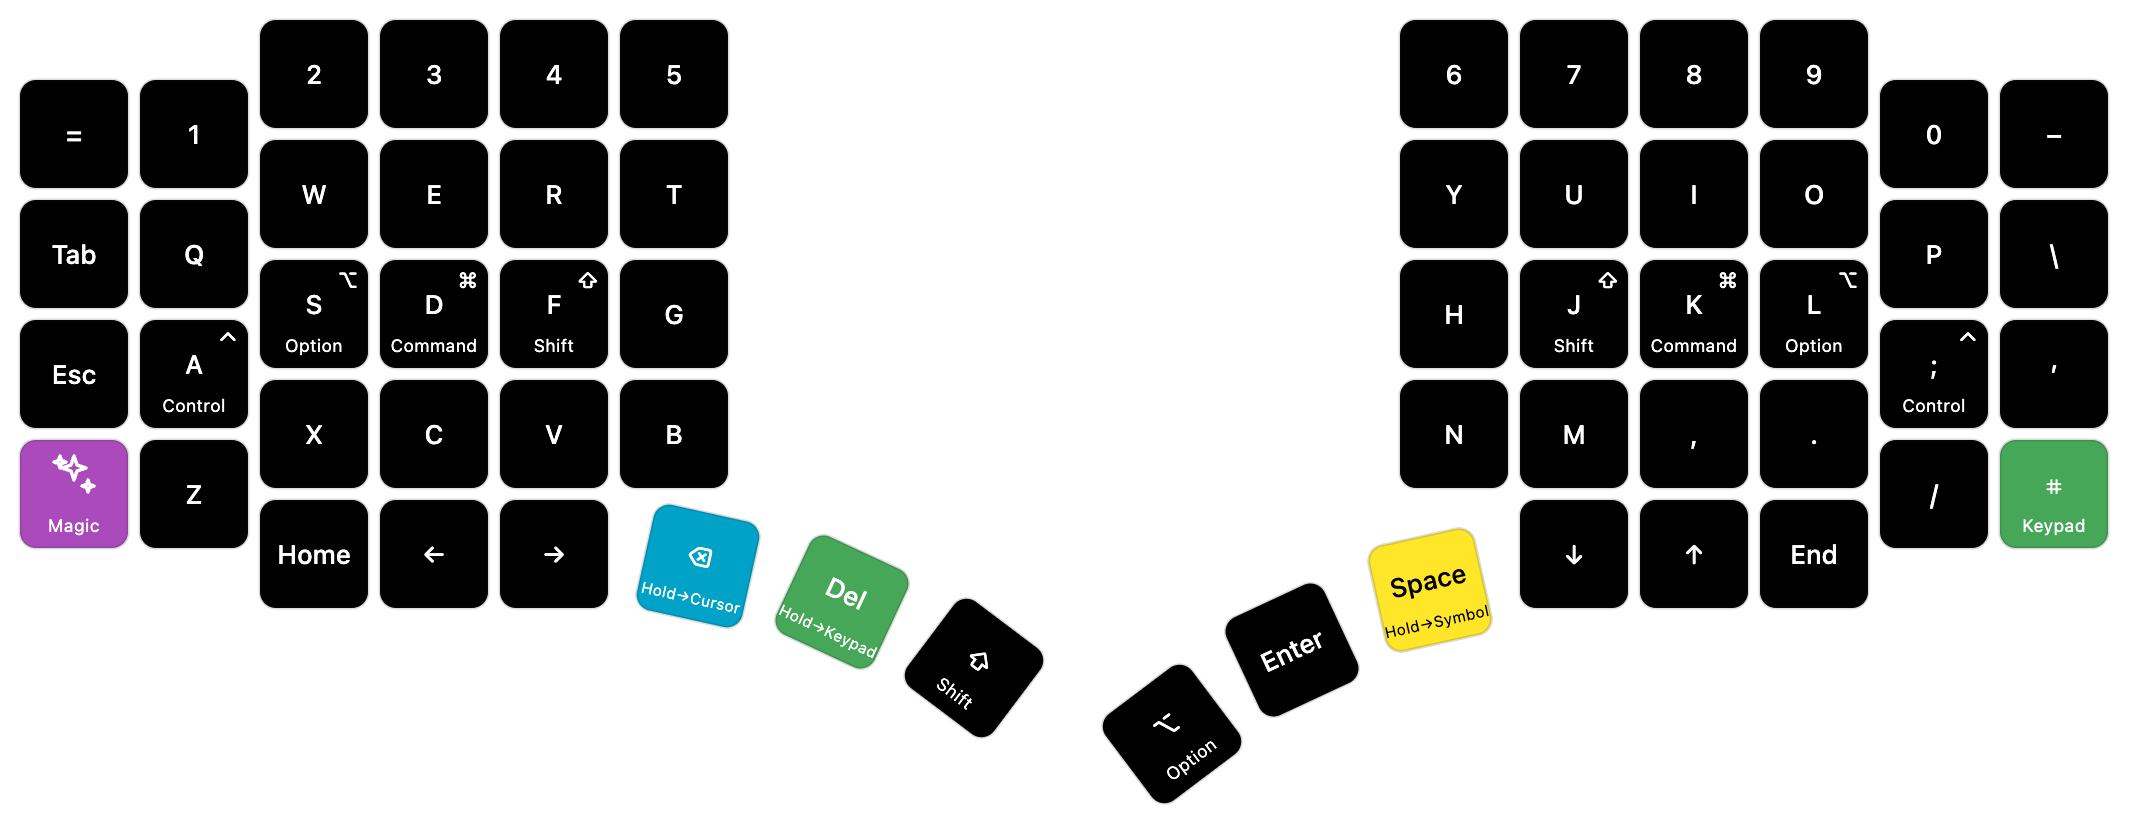
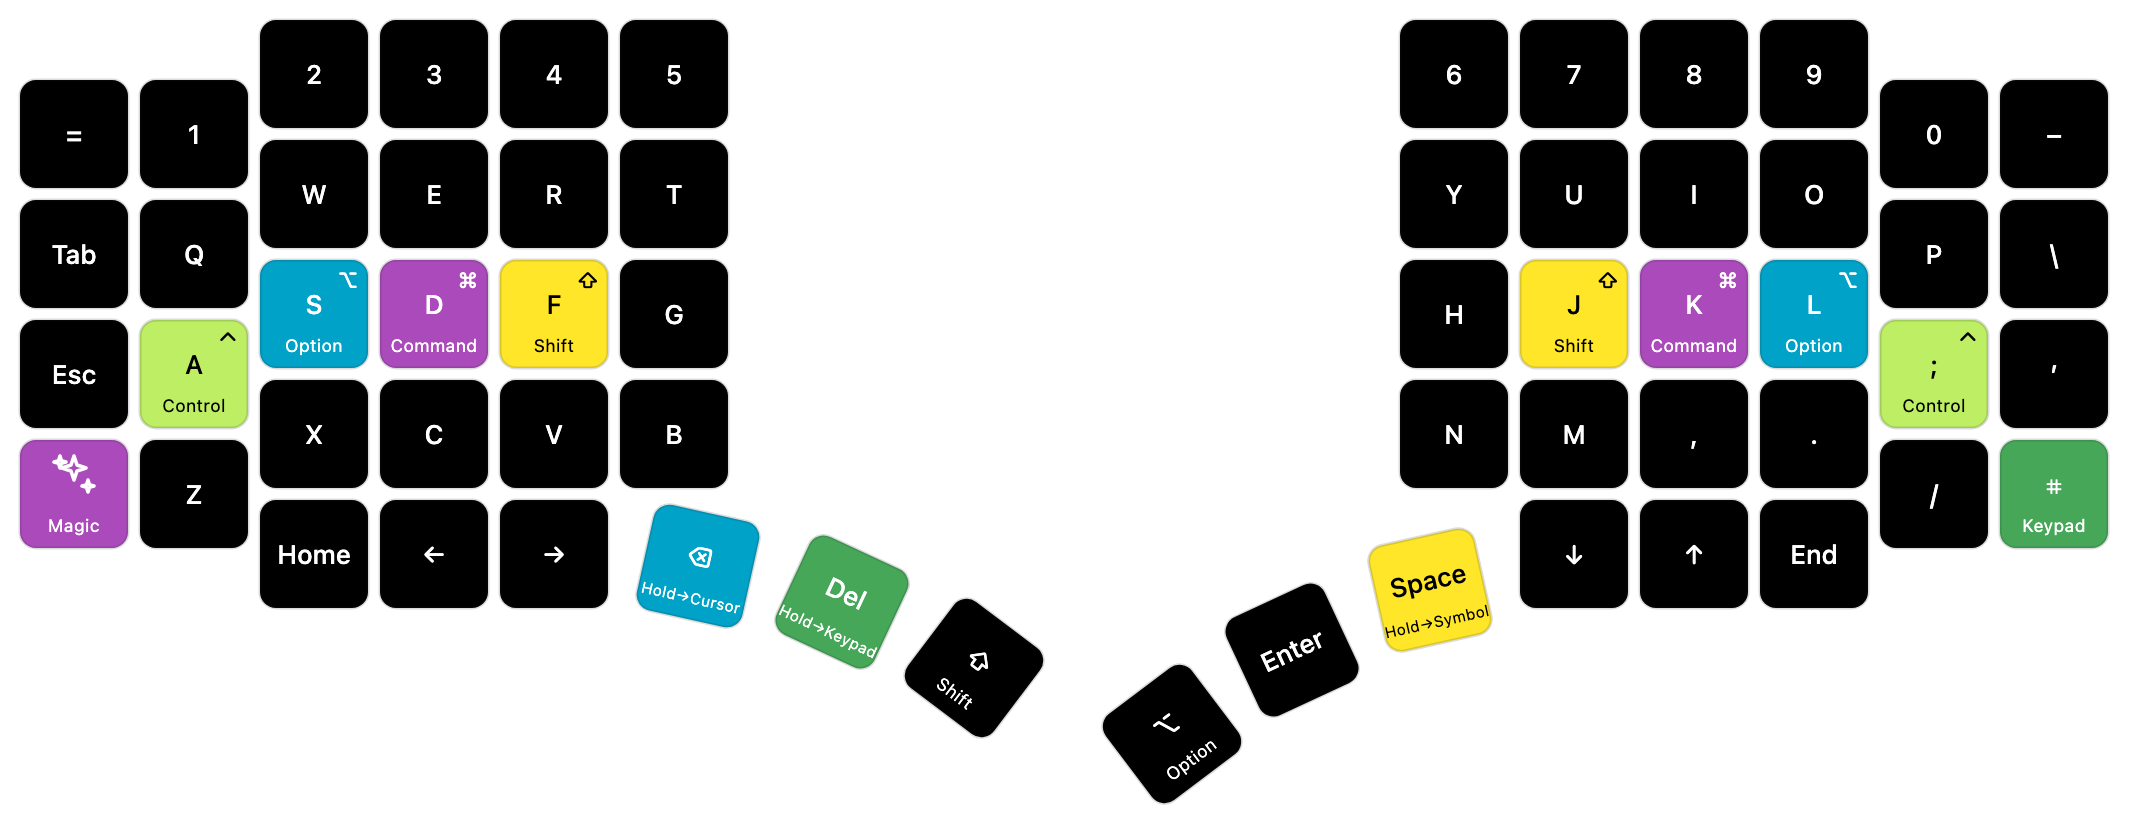
firmware: light base home-row mods
Distinguish each hold modifier without lighting ordinary letters on the
Typing layer. Parameterize the shared RGB map so both modes derive their
guide from one definition.

Changed region(s): [[0.7093, 0.3049, 0.9561, 0.5488], [0.0617, 0.3049, 0.3084, 0.5183]]

diff --git a/layout-preview.html b/layout-preview.html
@@ -71,7 +71,7 @@
   const controls = root.querySelector("#go60-layer-controls");
   const status = root.querySelector("#go60-layer-status");
   const board = root.querySelector("#go60-board");
-  const layers = [{"name":"Base","bindings":["&kp EQUAL","&kp N1","&kp N2","&kp N3","&kp N4","&kp N5","&kp N6","&kp N7","&kp N8","&kp N9","&kp N0","&kp MINUS","&kp TAB","&kp Q","&kp W","&kp E","&kp R","&kp T","&kp Y","&kp U","&kp I","&kp O","&kp P","&kp BSLH","&kp ESC","&HRM_left_hand_v1_TKZ LCTRL A","&HRM_left_hand_v1_TKZ LALT S","&HRM_left_hand_v1_TKZ LGUI D","&HRM_left_hand_v1_TKZ LSHFT F","&kp G","&kp H","&HRM_right_hand_v1_TKZ RSHFT J","&HRM_right_hand_v1_TKZ LGUI K","&HRM_right_hand_v1_TKZ LALT L","&HRM_right_hand_v1_TKZ RCTRL SEMI","&kp SQT","&magic LAYER_Magic 0","&kp Z","&kp X","&kp C","&kp V","&kp B","&kp N","&kp M","&kp COMMA","&kp DOT","&kp FSLH","&td_LAYER_Keypad","&kp HOME","&kp LEFT","&kp RIGHT","&kp DOWN","&kp UP","&kp END","&lt LAYER_Cursor BSPC","&lt LAYER_Keypad DEL","&kp LSHFT","&kp RALT","&kp RET","&lt LAYER_Symbol SPACE"],"own":"111111111111111111111111111111111111111111111111111111111111","colors":["#000000","#000000","#000000","#000000","#000000","#000000","#000000","#000000","#000000","#000000","#000000","#000000","#000000","#000000","#000000","#000000","#000000","#000000","#000000","#000000","#000000","#000000","#000000","#000000","#000000","#000000","#000000","#000000","#000000","#000000","#000000","#000000","#000000","#000000","#000000","#000000","#AB4ABA","#000000","#000000","#000000","#000000","#000000","#000000","#000000","#000000","#000000","#000000","#46A758","#000000","#000000","#000000","#000000","#000000","#000000","#00A2C7","#46A758","#000000","#000000","#000000","#FFE629"]},{"name":"Typing","bindings":["&kp EQUAL","&kp N1","&kp N2","&kp N3","&kp N4","&kp N5","&kp N6","&kp N7","&kp N8","&kp N9","&kp N0","&kp MINUS","&kp TAB","&kp Q","&kp W","&kp E","&kp R","&kp T","&kp Y","&kp U","&kp I","&kp O","&kp P","&kp BSLH","&kp ESC","&kp A","&kp S","&kp D","&kp F","&kp G","&kp H","&kp J","&kp K","&kp L","&kp SEMI","&kp SQT","&magic LAYER_Magic 0","&kp Z","&kp X","&kp C","&kp V","&kp B","&kp N","&kp M","&kp COMMA","&kp DOT","&kp FSLH","&td_LAYER_Keypad","&kp HOME","&kp LEFT","&kp RIGHT","&kp DOWN","&kp UP","&kp END","&lt LAYER_Cursor BSPC","&lt LAYER_Keypad DEL","&kp LSHFT","&kp RALT","&kp RET","&lt LAYER_Symbol SPACE"],"own":"000000000000000000000000011110011110000000000000000000000000","colors":["#000000","#000000","#000000","#000000","#000000","#000000","#000000","#000000","#000000","#000000","#000000","#000000","#000000","#000000","#000000","#000000","#000000","#000000","#000000","#000000","#000000","#000000","#000000","#000000","#000000","#000000","#000000","#000000","#000000","#000000","#000000","#000000","#000000","#000000","#000000","#000000","#AB4ABA","#000000","#000000","#000000","#000000","#000000","#000000","#000000","#000000","#000000","#000000","#46A758","#000000","#000000","#000000","#000000","#000000","#000000","#00A2C7","#46A758","#000000","#000000","#000000","#FFE629"]},{"name":"Symbol","bindings":["&kp GRAVE","&kp COMMA","&kp LS(N9)","&kp LS(N0)","&kp SEMI","&kp DOT","&none","&none","&none","&none","&none","&none","&kp LS(N1)","&kp LBKT","&kp LS(LBKT)","&kp LS(RBKT)","&kp RBKT","&kp LS(FSLH)","&kp GRAVE","&kp DEL","&kp LS(TAB)","&kp INS","&kp ESC","&none","&kp LS(N3)","&kp LS(N6)","&kp EQUAL","&kp LS(MINUS)","&kp LS(N4)","&kp LS(N8)","&kp LS(SINGLE_QUOTE)","&kp BSPC","&kp TAB","&kp SPACE","&kp RET","&none","&kp LS(GRAVE)","&kp LS(COMMA)","&kp LS(BSLH)","&kp MINUS","&kp LS(DOT)","&kp FSLH","&kp SQT","&sk LSHFT","&sk LCTRL","&sk LALT","&sk LGUI","&none","&kp SQT","&kp LS(SINGLE_QUOTE)","&kp LS(EQUAL)","&kp BSLH","&kp LS(N7)","&symb_dotdot_v1_TKZ","&kp LS(N5)","&kp LS(SEMI)","&kp LS(N2)","&none","&none","&none"],"own":"111111111111111111111111111111111111111111111111111111111111","colors":["#AB4ABA","#7CE2FE","#7CE2FE","#7CE2FE","#FFE629","#FFE629","#000000","#000000","#000000","#000000","#000000","#000000","#7CE2FE","#AB4ABA","#7CE2FE","#7CE2FE","#FFE629","#FFE629","#AB4ABA","#F76B15","#F76B15","#F76B15","#F76B15","#000000","#FFE629","#FFE629","#BDEE63","#F76B15","#FFE629","#FFE629","#AB4ABA","#F76B15","#F76B15","#F76B15","#F76B15","#000000","#AB4ABA","#BDEE63","#BDEE63","#BDEE63","#BDEE63","#FFE629","#AB4ABA","#EDEEF0","#EDEEF0","#EDEEF0","#EDEEF0","#000000","#AB4ABA","#AB4ABA","#F76B15","#FFE629","#FFE629","#FFE629","#FFE629","#FFE629","#FFE629","#000000","#000000","#000000"]},{"name":"Cursor","bindings":["&none","&kp ESC","&kp INS","&kp LS(TAB)","&kp DEL","&none","&none","&none","&kp K_APP","&kp PAUSE_BREAK","&kp SLCK","&none","&kp CAPS","&kp RET","&kp LS(LG(Z))","&kp LG(Z)","&kp BSPC","&kp LG(X)","&kp LG(X)","&kp LS(TAB)","&kp LG(Z)","&kp LS(LG(Z))","&kp TAB","&kp PSCRN","&sk LSHFT","&kp LCTRL","&kp LALT","&kp LGUI","&kp LSHFT","&kp LG(C)","&kp LG(C)","&kp LEFT","&kp UP","&kp DOWN","&kp RIGHT","&sk RSHFT","&kp LG(L)","&kp LG(A)","&cur_SELECT_LINE_macos_v1_TKZ","&cur_SELECT_WORD_macos_v1_TKZ","&kp LG(F)","&kp LG(V)","&kp LG(V)","&kp HOME","&kp PG_UP","&kp PG_DN","&kp END","&kp LG(L)","&none","&kp LS(LG(G))","&kp LG(G)","&kp LG(F)","&kp LS(LG(G))","&kp LG(G)","&none","&mod_tab_v2_TKZ LGUI","&kp LG(F3)","&cur_SELECT_NONE_v1_TKZ","&cur_EXTEND_LINE_macos_v1_TKZ","&cur_EXTEND_WORD_macos_v1_TKZ"],"own":"111111111111111111111111111111111111111111111111111111111111","colors":["#000000","#F76B15","#F76B15","#F76B15","#F76B15","#000000","#000000","#000000","#000000","#000000","#000000","#000000","#000000","#F76B15","#AB4ABA","#AB4ABA","#F76B15","#FFE629","#FFE629","#F76B15","#D6409F","#D6409F","#F76B15","#000000","#EDEEF0","#EDEEF0","#EDEEF0","#EDEEF0","#EDEEF0","#FFE629","#FFE629","#46A758","#46A758","#46A758","#46A758","#EDEEF0","#AB4ABA","#00A2C7","#00A2C7","#00A2C7","#AB4ABA","#FFE629","#FFE629","#46A758","#46A758","#46A758","#46A758","#AB4ABA","#000000","#AB4ABA","#AB4ABA","#AB4ABA","#AB4ABA","#AB4ABA","#000000","#29A383","#000000","#00A2C7","#00A2C7","#00A2C7"]},{"name":"Gaming","bindings":["&kp ESC","&kp N1","&kp N2","&kp N3","&kp N4","&kp N5","&kp N6","&kp N7","&kp N8","&kp N9","&kp N0","&kp MINUS","&kp RET","&kp TAB","&kp Q","&kp W","&kp E","&kp R","&kp Y","&kp U","&kp I","&kp O","&kp P","&kp LS(EQUAL)","&kp GRAVE","&kp LSHFT","&kp A","&kp S","&kp D","&kp F","&kp H","&kp J","&kp K","&kp L","&kp SEMI","&kp LS(SQT)","&kp B","&kp LCTRL","&kp Z","&kp X","&kp C","&kp V","&kp N","&kp M","&kp UP","&kp LS(COMMA)","&kp LS(DOT)","&kp LGUI","&kp LALT","&kp T","&kp G","&kp LEFT","&kp DOWN","&kp RIGHT","&kp SPACE","&kp LSHFT","&kp LCTRL","&kp BSPC","&kp LALT","&kp RET"],"own":"111111111111111111111111111111111111111111111111111111111111","colors":["#000000","#000000","#000000","#000000","#000000","#000000","#000000","#000000","#000000","#000000","#000000","#000000","#000000","#000000","#000000","#46A758","#000000","#000000","#000000","#000000","#000000","#000000","#000000","#000000","#000000","#000000","#46A758","#46A758","#46A758","#000000","#000000","#000000","#000000","#000000","#000000","#000000","#FFE629","#000000","#000000","#000000","#000000","#000000","#000000","#000000","#46A758","#000000","#000000","#000000","#000000","#000000","#000000","#46A758","#46A758","#46A758","#000000","#000000","#000000","#000000","#000000","#000000"]},{"name":"Keypad","bindings":["&none","&kp F1","&kp F2","&kp F3","&kp F4","&kp F5","&kp F6","&kp F7","&kp F8","&kp F9","&kp F10","&kp F11","&kp TAB","&none","&kp HOME","&kp UP","&kp END","&kp PG_UP","&kp KP_N7","&kp KP_N8","&kp KP_N9","&kp KP_MINUS","&kp KP_SLASH","&kp F12","&kp ESC","&kp LG(LS(Z))","&kp LEFT","&kp DOWN","&kp RIGHT","&kp PG_DN","&kp KP_N4","&kp KP_N5","&kp KP_N6","&kp KP_PLUS","&kp KP_MULTIPLY","&kp KP_NUM","&magic LAYER_Magic 0","&kp LG(Z)","&kp LG(X)","&kp LG(C)","&kp LG(V)","&kp LG(LA(LS(V)))","&kp KP_N1","&kp KP_N2","&kp KP_N3","&kp KP_ENTER","&kp EQUAL","&to LAYER_Base","&none","&kp T","&kp G","&kp KP_N0","&kp KP_DOT","&kp KP_ENTER","&none","&kp LSHFT","&kp LCTRL","&kp BSPC","&kp LALT","&kp KP_N0"],"own":"111111111111111111111111111111111111111111111111100111100001","colors":["#000000","#EDEEF0","#EDEEF0","#EDEEF0","#EDEEF0","#EDEEF0","#EDEEF0","#EDEEF0","#EDEEF0","#EDEEF0","#EDEEF0","#EDEEF0","#EDEEF0","#000000","#46A758","#46A758","#46A758","#46A758","#EDEEF0","#EDEEF0","#EDEEF0","#EDEEF0","#EDEEF0","#EDEEF0","#EDEEF0","#FFE629","#46A758","#46A758","#46A758","#46A758","#EDEEF0","#EDEEF0","#EDEEF0","#EDEEF0","#EDEEF0","#F76B15","#000000","#FFE629","#FFE629","#FFE629","#FFE629","#FFE629","#EDEEF0","#EDEEF0","#EDEEF0","#EDEEF0","#EDEEF0","#000000","#000000","#EDEEF0","#EDEEF0","#EDEEF0","#EDEEF0","#EDEEF0","#EDEEF0","#EDEEF0","#EDEEF0","#EDEEF0","#EDEEF0","#EDEEF0"]},{"name":"Magic","bindings":["&none","&kp C_BRI_DN","&kp C_BRI_UP","&kp C_PREV","&kp C_NEXT","&kp C_PP","&kp C_MUTE","&kp C_VOL_DN","&kp C_VOL_UP","&none","&bt BT_CLR","&bt BT_CLR_ALL","&bootloader","&rgb_ug RGB_SPI","&rgb_ug RGB_SAI","&rgb_ug RGB_HUI","&rgb_ug RGB_BRI","&rgb_ug RGB_TOG","&none","&none","&none","&none","&none","&bootloader","&sys_reset","&rgb_ug RGB_SPD","&rgb_ug RGB_SAD","&rgb_ug RGB_HUD","&rgb_ug RGB_BRD","&rgb_ug RGB_EFF","&none","&none","&none","&none","&none","&sys_reset","&none","&none","&bt_0","&bt_1","&bt_2","&bt_3","&none","&none","&none","&none","&none","&none","&out OUT_USB","&none","&to LAYER_Typing","&none","&none","&none","&to LAYER_Base","&none","&none","&none","&none","&none"],"own":"111111111111111111111111111111111111111111111111111111111111"}];
+  const layers = [{"name":"Base","bindings":["&kp EQUAL","&kp N1","&kp N2","&kp N3","&kp N4","&kp N5","&kp N6","&kp N7","&kp N8","&kp N9","&kp N0","&kp MINUS","&kp TAB","&kp Q","&kp W","&kp E","&kp R","&kp T","&kp Y","&kp U","&kp I","&kp O","&kp P","&kp BSLH","&kp ESC","&HRM_left_hand_v1_TKZ LCTRL A","&HRM_left_hand_v1_TKZ LALT S","&HRM_left_hand_v1_TKZ LGUI D","&HRM_left_hand_v1_TKZ LSHFT F","&kp G","&kp H","&HRM_right_hand_v1_TKZ RSHFT J","&HRM_right_hand_v1_TKZ LGUI K","&HRM_right_hand_v1_TKZ LALT L","&HRM_right_hand_v1_TKZ RCTRL SEMI","&kp SQT","&magic LAYER_Magic 0","&kp Z","&kp X","&kp C","&kp V","&kp B","&kp N","&kp M","&kp COMMA","&kp DOT","&kp FSLH","&td_LAYER_Keypad","&kp HOME","&kp LEFT","&kp RIGHT","&kp DOWN","&kp UP","&kp END","&lt LAYER_Cursor BSPC","&lt LAYER_Keypad DEL","&kp LSHFT","&kp RALT","&kp RET","&lt LAYER_Symbol SPACE"],"own":"111111111111111111111111111111111111111111111111111111111111","colors":["#000000","#000000","#000000","#000000","#000000","#000000","#000000","#000000","#000000","#000000","#000000","#000000","#000000","#000000","#000000","#000000","#000000","#000000","#000000","#000000","#000000","#000000","#000000","#000000","#000000","#BDEE63","#00A2C7","#AB4ABA","#FFE629","#000000","#000000","#FFE629","#AB4ABA","#00A2C7","#BDEE63","#000000","#AB4ABA","#000000","#000000","#000000","#000000","#000000","#000000","#000000","#000000","#000000","#000000","#46A758","#000000","#000000","#000000","#000000","#000000","#000000","#00A2C7","#46A758","#000000","#000000","#000000","#FFE629"]},{"name":"Typing","bindings":["&kp EQUAL","&kp N1","&kp N2","&kp N3","&kp N4","&kp N5","&kp N6","&kp N7","&kp N8","&kp N9","&kp N0","&kp MINUS","&kp TAB","&kp Q","&kp W","&kp E","&kp R","&kp T","&kp Y","&kp U","&kp I","&kp O","&kp P","&kp BSLH","&kp ESC","&kp A","&kp S","&kp D","&kp F","&kp G","&kp H","&kp J","&kp K","&kp L","&kp SEMI","&kp SQT","&magic LAYER_Magic 0","&kp Z","&kp X","&kp C","&kp V","&kp B","&kp N","&kp M","&kp COMMA","&kp DOT","&kp FSLH","&td_LAYER_Keypad","&kp HOME","&kp LEFT","&kp RIGHT","&kp DOWN","&kp UP","&kp END","&lt LAYER_Cursor BSPC","&lt LAYER_Keypad DEL","&kp LSHFT","&kp RALT","&kp RET","&lt LAYER_Symbol SPACE"],"own":"000000000000000000000000011110011110000000000000000000000000","colors":["#000000","#000000","#000000","#000000","#000000","#000000","#000000","#000000","#000000","#000000","#000000","#000000","#000000","#000000","#000000","#000000","#000000","#000000","#000000","#000000","#000000","#000000","#000000","#000000","#000000","#000000","#000000","#000000","#000000","#000000","#000000","#000000","#000000","#000000","#000000","#000000","#AB4ABA","#000000","#000000","#000000","#000000","#000000","#000000","#000000","#000000","#000000","#000000","#46A758","#000000","#000000","#000000","#000000","#000000","#000000","#00A2C7","#46A758","#000000","#000000","#000000","#FFE629"]},{"name":"Symbol","bindings":["&kp GRAVE","&kp COMMA","&kp LS(N9)","&kp LS(N0)","&kp SEMI","&kp DOT","&none","&none","&none","&none","&none","&none","&kp LS(N1)","&kp LBKT","&kp LS(LBKT)","&kp LS(RBKT)","&kp RBKT","&kp LS(FSLH)","&kp GRAVE","&kp DEL","&kp LS(TAB)","&kp INS","&kp ESC","&none","&kp LS(N3)","&kp LS(N6)","&kp EQUAL","&kp LS(MINUS)","&kp LS(N4)","&kp LS(N8)","&kp LS(SINGLE_QUOTE)","&kp BSPC","&kp TAB","&kp SPACE","&kp RET","&none","&kp LS(GRAVE)","&kp LS(COMMA)","&kp LS(BSLH)","&kp MINUS","&kp LS(DOT)","&kp FSLH","&kp SQT","&sk LSHFT","&sk LCTRL","&sk LALT","&sk LGUI","&none","&kp SQT","&kp LS(SINGLE_QUOTE)","&kp LS(EQUAL)","&kp BSLH","&kp LS(N7)","&symb_dotdot_v1_TKZ","&kp LS(N5)","&kp LS(SEMI)","&kp LS(N2)","&none","&none","&none"],"own":"111111111111111111111111111111111111111111111111111111111111","colors":["#AB4ABA","#7CE2FE","#7CE2FE","#7CE2FE","#FFE629","#FFE629","#000000","#000000","#000000","#000000","#000000","#000000","#7CE2FE","#AB4ABA","#7CE2FE","#7CE2FE","#FFE629","#FFE629","#AB4ABA","#F76B15","#F76B15","#F76B15","#F76B15","#000000","#FFE629","#FFE629","#BDEE63","#F76B15","#FFE629","#FFE629","#AB4ABA","#F76B15","#F76B15","#F76B15","#F76B15","#000000","#AB4ABA","#BDEE63","#BDEE63","#BDEE63","#BDEE63","#FFE629","#AB4ABA","#EDEEF0","#EDEEF0","#EDEEF0","#EDEEF0","#000000","#AB4ABA","#AB4ABA","#F76B15","#FFE629","#FFE629","#FFE629","#FFE629","#FFE629","#FFE629","#000000","#000000","#000000"]},{"name":"Cursor","bindings":["&none","&kp ESC","&kp INS","&kp LS(TAB)","&kp DEL","&none","&none","&none","&kp K_APP","&kp PAUSE_BREAK","&kp SLCK","&none","&kp CAPS","&kp RET","&kp LS(LG(Z))","&kp LG(Z)","&kp BSPC","&kp LG(X)","&kp LG(X)","&kp LS(TAB)","&kp LG(Z)","&kp LS(LG(Z))","&kp TAB","&kp PSCRN","&sk LSHFT","&kp LCTRL","&kp LALT","&kp LGUI","&kp LSHFT","&kp LG(C)","&kp LG(C)","&kp LEFT","&kp UP","&kp DOWN","&kp RIGHT","&sk RSHFT","&kp LG(L)","&kp LG(A)","&cur_SELECT_LINE_macos_v1_TKZ","&cur_SELECT_WORD_macos_v1_TKZ","&kp LG(F)","&kp LG(V)","&kp LG(V)","&kp HOME","&kp PG_UP","&kp PG_DN","&kp END","&kp LG(L)","&none","&kp LS(LG(G))","&kp LG(G)","&kp LG(F)","&kp LS(LG(G))","&kp LG(G)","&none","&mod_tab_v2_TKZ LGUI","&kp LG(F3)","&cur_SELECT_NONE_v1_TKZ","&cur_EXTEND_LINE_macos_v1_TKZ","&cur_EXTEND_WORD_macos_v1_TKZ"],"own":"111111111111111111111111111111111111111111111111111111111111","colors":["#000000","#F76B15","#F76B15","#F76B15","#F76B15","#000000","#000000","#000000","#000000","#000000","#000000","#000000","#000000","#F76B15","#AB4ABA","#AB4ABA","#F76B15","#FFE629","#FFE629","#F76B15","#D6409F","#D6409F","#F76B15","#000000","#EDEEF0","#EDEEF0","#EDEEF0","#EDEEF0","#EDEEF0","#FFE629","#FFE629","#46A758","#46A758","#46A758","#46A758","#EDEEF0","#AB4ABA","#00A2C7","#00A2C7","#00A2C7","#AB4ABA","#FFE629","#FFE629","#46A758","#46A758","#46A758","#46A758","#AB4ABA","#000000","#AB4ABA","#AB4ABA","#AB4ABA","#AB4ABA","#AB4ABA","#000000","#29A383","#000000","#00A2C7","#00A2C7","#00A2C7"]},{"name":"Gaming","bindings":["&kp ESC","&kp N1","&kp N2","&kp N3","&kp N4","&kp N5","&kp N6","&kp N7","&kp N8","&kp N9","&kp N0","&kp MINUS","&kp RET","&kp TAB","&kp Q","&kp W","&kp E","&kp R","&kp Y","&kp U","&kp I","&kp O","&kp P","&kp LS(EQUAL)","&kp GRAVE","&kp LSHFT","&kp A","&kp S","&kp D","&kp F","&kp H","&kp J","&kp K","&kp L","&kp SEMI","&kp LS(SQT)","&kp B","&kp LCTRL","&kp Z","&kp X","&kp C","&kp V","&kp N","&kp M","&kp UP","&kp LS(COMMA)","&kp LS(DOT)","&kp LGUI","&kp LALT","&kp T","&kp G","&kp LEFT","&kp DOWN","&kp RIGHT","&kp SPACE","&kp LSHFT","&kp LCTRL","&kp BSPC","&kp LALT","&kp RET"],"own":"111111111111111111111111111111111111111111111111111111111111","colors":["#000000","#000000","#000000","#000000","#000000","#000000","#000000","#000000","#000000","#000000","#000000","#000000","#000000","#000000","#000000","#46A758","#000000","#000000","#000000","#000000","#000000","#000000","#000000","#000000","#000000","#000000","#46A758","#46A758","#46A758","#000000","#000000","#000000","#000000","#000000","#000000","#000000","#FFE629","#000000","#000000","#000000","#000000","#000000","#000000","#000000","#46A758","#000000","#000000","#000000","#000000","#000000","#000000","#46A758","#46A758","#46A758","#000000","#000000","#000000","#000000","#000000","#000000"]},{"name":"Keypad","bindings":["&none","&kp F1","&kp F2","&kp F3","&kp F4","&kp F5","&kp F6","&kp F7","&kp F8","&kp F9","&kp F10","&kp F11","&kp TAB","&none","&kp HOME","&kp UP","&kp END","&kp PG_UP","&kp KP_N7","&kp KP_N8","&kp KP_N9","&kp KP_MINUS","&kp KP_SLASH","&kp F12","&kp ESC","&kp LG(LS(Z))","&kp LEFT","&kp DOWN","&kp RIGHT","&kp PG_DN","&kp KP_N4","&kp KP_N5","&kp KP_N6","&kp KP_PLUS","&kp KP_MULTIPLY","&kp KP_NUM","&magic LAYER_Magic 0","&kp LG(Z)","&kp LG(X)","&kp LG(C)","&kp LG(V)","&kp LG(LA(LS(V)))","&kp KP_N1","&kp KP_N2","&kp KP_N3","&kp KP_ENTER","&kp EQUAL","&to LAYER_Base","&none","&kp T","&kp G","&kp KP_N0","&kp KP_DOT","&kp KP_ENTER","&none","&kp LSHFT","&kp LCTRL","&kp BSPC","&kp LALT","&kp KP_N0"],"own":"111111111111111111111111111111111111111111111111100111100001","colors":["#000000","#EDEEF0","#EDEEF0","#EDEEF0","#EDEEF0","#EDEEF0","#EDEEF0","#EDEEF0","#EDEEF0","#EDEEF0","#EDEEF0","#EDEEF0","#EDEEF0","#000000","#46A758","#46A758","#46A758","#46A758","#EDEEF0","#EDEEF0","#EDEEF0","#EDEEF0","#EDEEF0","#EDEEF0","#EDEEF0","#FFE629","#46A758","#46A758","#46A758","#46A758","#EDEEF0","#EDEEF0","#EDEEF0","#EDEEF0","#EDEEF0","#F76B15","#000000","#FFE629","#FFE629","#FFE629","#FFE629","#FFE629","#EDEEF0","#EDEEF0","#EDEEF0","#EDEEF0","#EDEEF0","#000000","#000000","#EDEEF0","#EDEEF0","#EDEEF0","#EDEEF0","#EDEEF0","#EDEEF0","#EDEEF0","#EDEEF0","#EDEEF0","#EDEEF0","#EDEEF0"]},{"name":"Magic","bindings":["&none","&kp C_BRI_DN","&kp C_BRI_UP","&kp C_PREV","&kp C_NEXT","&kp C_PP","&kp C_MUTE","&kp C_VOL_DN","&kp C_VOL_UP","&none","&bt BT_CLR","&bt BT_CLR_ALL","&bootloader","&rgb_ug RGB_SPI","&rgb_ug RGB_SAI","&rgb_ug RGB_HUI","&rgb_ug RGB_BRI","&rgb_ug RGB_TOG","&none","&none","&none","&none","&none","&bootloader","&sys_reset","&rgb_ug RGB_SPD","&rgb_ug RGB_SAD","&rgb_ug RGB_HUD","&rgb_ug RGB_BRD","&rgb_ug RGB_EFF","&none","&none","&none","&none","&none","&sys_reset","&none","&none","&bt_0","&bt_1","&bt_2","&bt_3","&none","&none","&none","&none","&none","&none","&out OUT_USB","&none","&to LAYER_Typing","&none","&none","&none","&to LAYER_Base","&none","&none","&none","&none","&none"],"own":"111111111111111111111111111111111111111111111111111111111111"}];
   const layerNames = layers.map(layer => layer.name);
   const keyNames = ["LH C6R1","LH C5R1","LH C4R1","LH C3R1","LH C2R1","LH C1R1","RH C1R1","RH C2R1","RH C3R1","RH C4R1","RH C5R1","RH C6R1","LH C6R2","LH C5R2","LH C4R2","LH C3R2","LH C2R2","LH C1R2","RH C1R2","RH C2R2","RH C3R2","RH C4R2","RH C5R2","RH C6R2","LH C6R3","LH C5R3","LH C4R3","LH C3R3","LH C2R3","LH C1R3","RH C1R3","RH C2R3","RH C3R3","RH C4R3","RH C5R3","RH C6R3","LH C6R4","LH C5R4","LH C4R4","LH C3R4","LH C2R4","LH C1R4","RH C1R4","RH C2R4","RH C3R4","RH C4R4","RH C5R4","RH C6R4","LH C4R5","LH C3R5","LH C2R5","RH C2R5","RH C3R5","RH C4R5","LH T1","LH T2","LH T3","RH T3","RH T2","RH T1"];
   const positions = [];